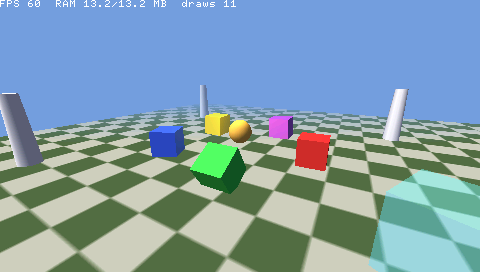
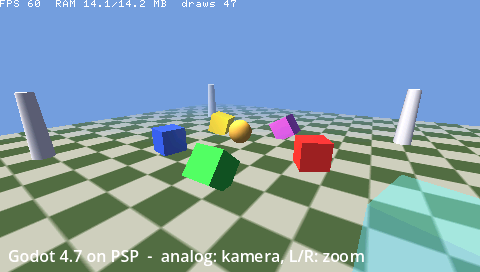
psp: text rendering (FreeType text server + WOFF2 default font), label test, docs

diff --git a/tools/psp/bmp_check.py b/tools/psp/bmp_check.py
@@ -1,6 +1,8 @@
 #!/usr/bin/env python3
 """Kullanım: bmp_check.py <in.bmp> <out.png> [--nonblack X,Y ...] [--rgb X,Y,R,G,B,TOL ...]
    [--brighter X1,Y1,X2,Y2,MINDIFF ...]  (X1,Y1 parlaklığı X2,Y2'den en az MINDIFF fazla)
+   [--region-has X0,Y0,X1,Y1,R,G,B,TOL ...]  (dikdörtgende bu renge yakın en az bir piksel var)
+   [--region-lacks X0,Y0,X1,Y1,R,G,B,TOL ...]  (dikdörtgende bu renge yakın hiç piksel yok)
    [--chgt X,Y,A,B,MINDIFF ...]  (X,Y pikselinde kanal A (0=R,1=G,2=B) kanal B'den en az MINDIFF büyük)"""
 import sys
 from PIL import Image
@@ -34,5 +36,11 @@ while i < len(checks):
         px = img.getpixel((x, y))
         if px[a] - px[b] < d:
             print(f"[bmp_check] FAIL chgt pixel {x},{y}={px}: ch{a} - ch{b} < {d}"); ok = False
+    elif kind in ("--region-has", "--region-lacks"):
+        x0, y0, x1, y1, r, g, b, tol = map(int, arg.split(","))
+        found = any(max(abs(p[0] - r), abs(p[1] - g), abs(p[2] - b)) <= tol
+                    for y in range(y0, y1) for x in range(x0, x1) for p in [img.getpixel((x, y))])
+        if found != (kind == "--region-has"):
+            print(f"[bmp_check] FAIL {kind} {x0},{y0}-{x1},{y1} color ({r},{g},{b})±{tol}"); ok = False
 print("[bmp_check] OK" if ok else "[bmp_check] FAILED")
 sys.exit(0 if ok else 1)

diff --git a/platform/psp/detect.py b/platform/psp/detect.py
@@ -50,9 +50,13 @@ def get_flags():
         "disable_xr": True,
         # Gelişmiş GUI sınıfları (Tree, TextEdit, GraphEdit...) PSP'de gereksiz.
         "disable_advanced_gui": True,
+        # Yazı: hafif FreeType text server (msdf/svg olmadan). Label/Button metinleri için.
+        "module_text_server_fb_enabled": True,
+        "module_freetype_enabled": True,
         "deprecated": False,
         "minizip": False,
-        "brotli": False,
+        # Brotli: Godot'un gömülü varsayılan fontu WOFF2 (Brotli sıkıştırmalı).
+        "brotli": True,
         "vulkan": False,
         "opengl3": False,
         "disable_exceptions": True,

diff --git a/docs/psp/porting-notes.md b/docs/psp/porting-notes.md
@@ -59,3 +59,4 @@ Her satır: `dosya:satır` — değişiklik — neden.
 | tests/psp/projects/{tex_swizzle,lit_rotated_cam,many_lights,shader_material,position_only} | Swizzle'lı texture + UV offset, döndürülmüş kamera ışığı, >4 ışık, ShaderMaterial, pozisyon-only mesh | İnceleme test boşlukları |
 | drivers/psp_gu/rasterizer_canvas_psp.* | 2D canvas: RECT/NINEPATCH/POLYGON/PRIMITIVE (through modu, vertex'ler display list'ten), MESH (ortografik 3D yolu), kırpma, filtre/repeat; temizleme isteği 2D öncesi | Label/Sprite/UI görünmüyordu |
 | drivers/psp_gu/storage/mesh_storage_psp.cpp | 2D vertex dizileri (z=0) kabul edilir | Polygon2D 4.7'de 2D mesh kullanır |
+| platform/psp/detect.py | `module_text_server_fb_enabled`, `module_freetype_enabled`, `brotli=True` | Label yazıları; gömülü font WOFF2 (Brotli). ELF +1.4 MB |
